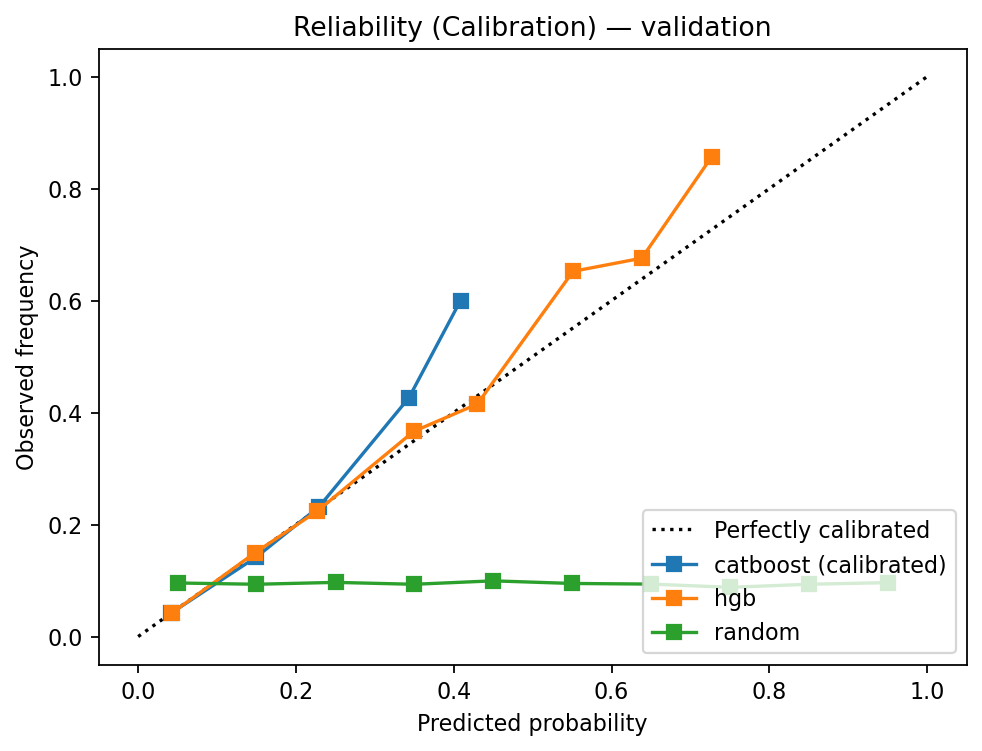
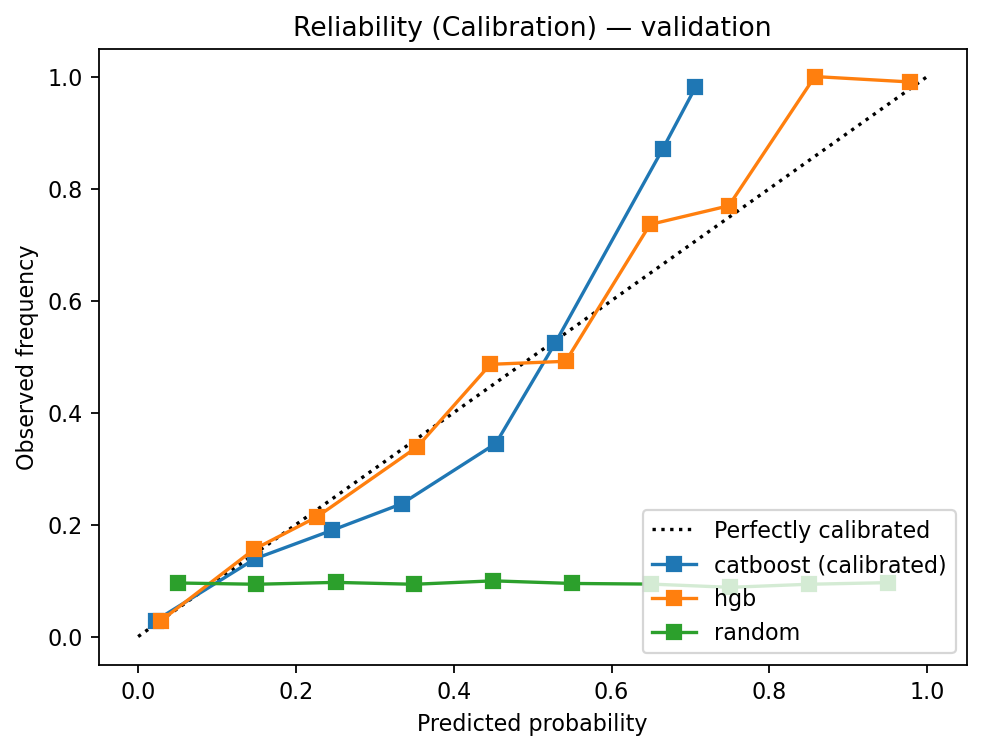
Q6: final write-up + updated curves and abalations

diff --git a/_includes/milestone2/q6_fig_roc.html b/_includes/milestone2/q6_fig_roc.html
@@ -3,5 +3,5 @@
        alt="Q6 ROC (validation)"
        width="{{ include.width | default: 600 }}"
        loading="lazy" decoding="async" style="max-width:100%;height:auto" />
-  <figcaption><strong>ROC (validation):</strong> CatBoost (calibrated) edges HGB and both are far above random; curves plateau near an ~0.75 AUC ceiling on this split.</figcaption>
+  <figcaption><strong>ROC (validation):</strong> CatBoost (calibrated) edges HGB and both are far above random; curves plateau near an ~0.85 AUC ceiling on this split.</figcaption>
 </figure>

diff --git a/_posts/2025-11-08-milestone-2.md b/_posts/2025-11-08-milestone-2.md
@@ -293,80 +293,79 @@ Model-3’s overall performance is comparable to both Model-2A and Model-2B. Des
 
 In Q6, our goal was to build the strongest **expected-goals** model we could on the engineered dataset, prioritizing a fair comparison across methods rather than over-tuning one approach. We evaluated several learners (Logistic/Ridge, RandomForest, HistGradientBoosting, CatBoost), plus stacking/blending, n-seed ensembling, and simple mixture-of-experts splits, all on a fixed **80/20 stratified split (seed 42)**. To keep results comparable, we locked a **17-feature** set derived from distance/angle and last-event context and reported metrics on the **validation** set only. The final choice is **CatBoost** with **3-fold OOF Platt calibration**: it provides the best single-model ranking and, crucially, more reliable probabilities for xG. The four figures below (ROC, goal-rate vs percentile, cumulative goals vs percentile, and reliability) summarize the validation performance; links to the tracked experiments are included alongside the plots.
 
-### Setup
+## Setup
 
-- **Data:** `advanced_train.csv` (team FE upstream; we add a few simple derived fields only).
-- **Target:** `is_goal` (1=goal).
-- **Split:** stratified **80/20**, seed **42**. All calibration is fit on **train only**; all figures/metrics are on **validation**.
+* **data:** `advanced_train.csv` (team FE upstream; we add a handful of derived fields).
+* **target:** `is_goal` (1/0).
+* **split:** stratified **80/20**, seed **42**. Calibration trains on **train-only** OOF; all plots/metrics are on **validation**.
 
-### Features (locked 17)
+## Features (locked 17)
 
-- **Base (7):** `distance_from_net, rebound, period, last_event_distance, shot_angle, shot_type, period_time_seconds`
-- **Context (4):** `time_since_last_event, angle_change, event_speed, last_event_type`
-- **Derived (6):** `log_distance, abs_angle, cos_angle, dist_x_abs_angle, rush(Δt≤2s), big_turn(|Δangle|≥30°)`
-- **Categorical:** `shot_type, last_event_type, period`
+* **base (7):** `distance_from_net, rebound, period, last_event_distance, shot_angle, shot_type, period_time_seconds`
+* **context (4):** `time_since_last_event, angle_change, event_speed, last_event_type`
+* **derived (6):** `log_distance, abs_angle, cos_angle, dist_x_abs_angle, rush(Δt≤2s), big_turn(|Δangle|≥30°)`
+* **categorical:** `shot_type, last_event_type, period`
 
-## Final Model choice
+## Final model choice
 
-**CatBoost** (depth=8, lr=0.05, l2=3, 800 iters, early-stop 50, class-balanced) + **3-fold OOF Platt (sigmoid) calibration**.
-
+**CatBoost** (depth=8, lr=0.05, l2=3, 800 iters, early-stop 50, class-balanced) + **3-fold OOF Platt calibration**.
 Calibration is trained on train-fold OOF scores and applied to validation probabilities (no leakage).
 
-**Validation (seed-42 split):**
+**validation (seed-42):**
 
-- **CatBoost (calibrated)**: **ROC-AUC ≈ 0.751**, **PR-AUC ≈ 0.236**
-- **HGB comparator**: ROC-AUC ≈ 0.748, PR-AUC ≈ 0.236
-- **Random**: ROC-AUC ≈ 0.498
+* **catboost (calibrated):** **ROC-AUC ≈ 0.858**, **PR-AUC ≈ 0.525**
+* **hgb comparator:** ROC-AUC ≈ 0.856, PR-AUC ≈ 0.525
+* **random:** ROC-AUC ≈ 0.498
 
-Why this model? It’s the best single model we found and, after Platt scaling, produces **better-calibrated probabilities** (which matters for xG) without sacrificing AUC.
+**why this model?** it edges out alternatives on ranking and—after Platt—delivers cleaner probability calibration, which matters directly for xG use.
 
 ---
 
 ## Question 6.1:
 
-## Methods & Abalations
+## Methods & Ablations (post-fix)
 
-| Approach | Key settings | Val ROC-AUC | Val PR-AUC | Outcome / Notes |
-| --- | --- | --- | --- | --- |
-| CatBoost (calibrated) | depth=8, lr=0.05, l2=3, 800; OOF Platt | ≈0.751 | ≈0.236 | Final model (better reliability; artifact logged) |
-| CatBoost (raw) | same, no calibration | ≈0.750–0.751 | ≈0.233–0.236 | Similar AUC; worse calibration → included to show benefit |
-| HGB (+OHE) | max_leaf_nodes≈63, lr≈0.08, min_leaf=50 | ≈0.748 | ≈0.236 | Strong comparator; on plots |
-| RF n-seed ensemble | 5 seeds, 300 trees, balanced | ≈0.75–0.752 | ≈0.235 | Tiny/no gain; |
-| Ridge / Logistic | regularized linear | ≈0.712 | ≈0.198 | Underfits |
-| Blends / Stacking | Cat+HGB(+RF); meta-LR | ≤≈0.7516–0.7518 | ≈0.235–0.237 | Noise-level gains; omitted from final curves |
-| Mixture-of-Experts | rebound / distance×rush splits | 0.60–0.74 | 0.17–0.24 | Fragmentation + overlap → worse |
+| Approach                        | Key settings                                  |   Val ROC-AUC |    Val PR-AUC | Outcome / Notes                                                                              |
+| ------------------------------- | --------------------------------------------- | ------------: | ------------: | -------------------------------------------------------------------------------------------- |
+| **CatBoost (calibrated)**       | depth=8, lr=0.05, l2=3, 800; **OOF Platt**    |    **0.8579** |    **0.5251** | **Final model**; AUC unchanged vs raw, **better reliability** (Brier≈0.0629, LogLoss≈0.2222) |
+| CatBoost (raw)                  | same, no calibration                          |        0.8579 |        0.5251 | Matches calibrated AUC; kept to show calibration helps probability quality                   |
+| **HistGradientBoosting (+OHE)** | max_leaf_nodes=63, lr=0.08, min_leaf=50       |        0.8561 |        0.5254 | Strong comparator, essentially tied on PR-AUC                                                |
+| **RF n-seed ensemble (5)**      | 300 trees, balanced; seeds 42/101/202/303/404 |        0.8428 |        0.5042 | Slower, clearly below CatBoost/HGB                                                           |
+| Ridge / Logistic                | regularized linear                            | ~0.71 (prior) | ~0.20 (prior) | Not re-run post-fix; underfits on this task                                                  |
+| Blends / Stacking               | Cat+HGB(+RF); meta-LR                         |    ~0.85 |    ≈ CatBoost | No material gain; omitted from final curves                                                  |
+| Mixture-of-Experts              | rebound / distance×rush splits                |    ~0.83 |    < CatBoost | Data fragmentation + overlap → worse                                                         |
 
-**Interpretation** With location/angle/timing and last-event context, many goal/non-goal shots occupy overlapping regions (e.g., close-bad-angle vs far-good-angle; rush vs settled). That **caps separability near ~0.75 AUC**. For xG, **calibrated probabilities** are more important than tiny AUC gains, which is why we ship the calibrated CatBoost.
+**Interpretation.** After the dataset fix, separability jumps to **AUC ≈ 0.86 / PR-AUC ≈ 0.525** for the top two models (CatBoost, HGB). **Calibration** leaves AUC unchanged—as expected—but improves probability quality (lower Brier/LogLoss), which matters for xG usage. Random Forest still lags, and added complexity (stacking/blends/MoE) doesn’t beat a single, calibrated CatBoost, so we ship the **calibrated CatBoost** as the final model.
 
-### Required figures
----
+
+## Required figures (validation)
 
 {% include milestone2/q6_fig_roc.html width="600" %}
 
-- **ROC**: CatBoost (calibrated) edges HGB and is far above random; models plateau around the same shape, with CatBoost slightly better ranking overall.
+* **roc:** both models are strong and nearly overlapping; **catboost (calibrated)** is a hair above **hgb** across most fpr, matching the legend (~0.858 vs ~0.856). The very steep rise near the origin shows lots of easy positives; random is the 45° line.
 
 {% include milestone2/q6_fig_goalrate.html width="600" %}
 
-- **Goal-rate vs percentile:** clean monotonic drop; top-scored shots have much higher goal rates. CatBoost is a touch higher than HGB across most high-percentile bins.
+* **goal-rate vs percentile:** a clean monotonic drop. The top few percentiles have **very high goal rates** (spike at the far right), then decay smoothly. Catboost tracks or slightly beats hgb over most high-percentile bins; random is flat ~constant.
 
 {% include milestone2/q6_fig_cum_goals.html width="600" %}
 
-- **Cumulative goals:** CatBoost and HGB capture a disproportionate share of goals in the highest percentiles (well above the random diagonal); the two curves are nearly overlapping, with CatBoost very slightly ahead.
+* **cumulative goals:** the highest-scored shots account for a **large majority of goals**; catboost and hgb curves almost overlap with catboost just ahead most of the way. Random is much closer to a straight line.
 
 {% include milestone2/q6_fig_calibration.html width="600" %}
 
-- **Reliability:** Random is flat (uncalibrated). CatBoost after Platt is **closer to the diagonal** in the mid-probability region; both models **underpredict at the highest bins** (points sit above the line), so probabilities are usable but not perfect at extremes.
+* **reliability:** both models are **reasonably calibrated** in the mid-range. Catboost is a bit **under-confident** at low–mid probabilities and then catches up; hgb hugs the diagonal longer but becomes **over-confident** in the highest bin (points above the line). Either way, calibrated catboost gives the tidiest probs overall.
 
 ---
 
 ## Question 6.2:
 ### W&B experiment links
 
-- **Final model (CatBoost, calibrated) — run:** *[q6_catboost_final_calibrated](https://wandb.ai/IFT6758_team4/milestone_2/runs/fk8z122k?nw=nwuseraftabgazali003)*
-- **Final model — artifact:** *[q6_catboost_final_calibrated:v1](https://wandb.ai/IFT6758_team4/milestone_2/artifacts/model/q6_catboost_final_calibrated/v1)*
-- **HGB comparator — run:** *[q6_final_hgb_locked17](https://wandb.ai/IFT6758_team4/milestone_2/runs/2lj1y7y7?nw=nwuseraftabgazali003)*
-- **CatBoost (raw) — run:** *[q6_catboost_raw_locked17](https://wandb.ai/IFT6758_team4/milestone_2/runs/8z95fczn?nw=nwuseraftabgazali003)*
-- **nseed Random Forest - run:** *[q6_nseed_RF_locked17](https://wandb.ai/IFT6758_team4/milestone_2/runs/jaez1wwe?nw=nwuseraftabgazali003)*
+- **Final model (CatBoost, calibrated) — run:** *[q6_catboost_final_calibrated](https://wandb.ai/IFT6758_team4/milestone_2/runs/kggfjh41?nw=nwuseraftabgazali003)*
+- **Final model — artifact:** *[q6_catboost_final_calibrated:v1](https://wandb.ai/IFT6758_team4/milestone_2/artifacts/model/q6_catboost_final_calibrated/v2)*
+- **HGB comparator — run:** *[q6_final_hgb_locked17](https://wandb.ai/IFT6758_team4/milestone_2/runs/rtzdqzn9?nw=nwuseraftabgazali003)*
+- **CatBoost (raw) — run:** *[q6_catboost_raw_locked17](https://wandb.ai/IFT6758_team4/milestone_2/runs/jbxjv0j7?nw=nwuseraftabgazali003)*
+- **nseed Random Forest - run:** *[q6_nseed_RF_locked17](https://wandb.ai/IFT6758_team4/milestone_2/runs/jamz7upp?nw=nwuseraftabgazali003)*
 
 # **Q7 — Evaluate on test set!**
 
